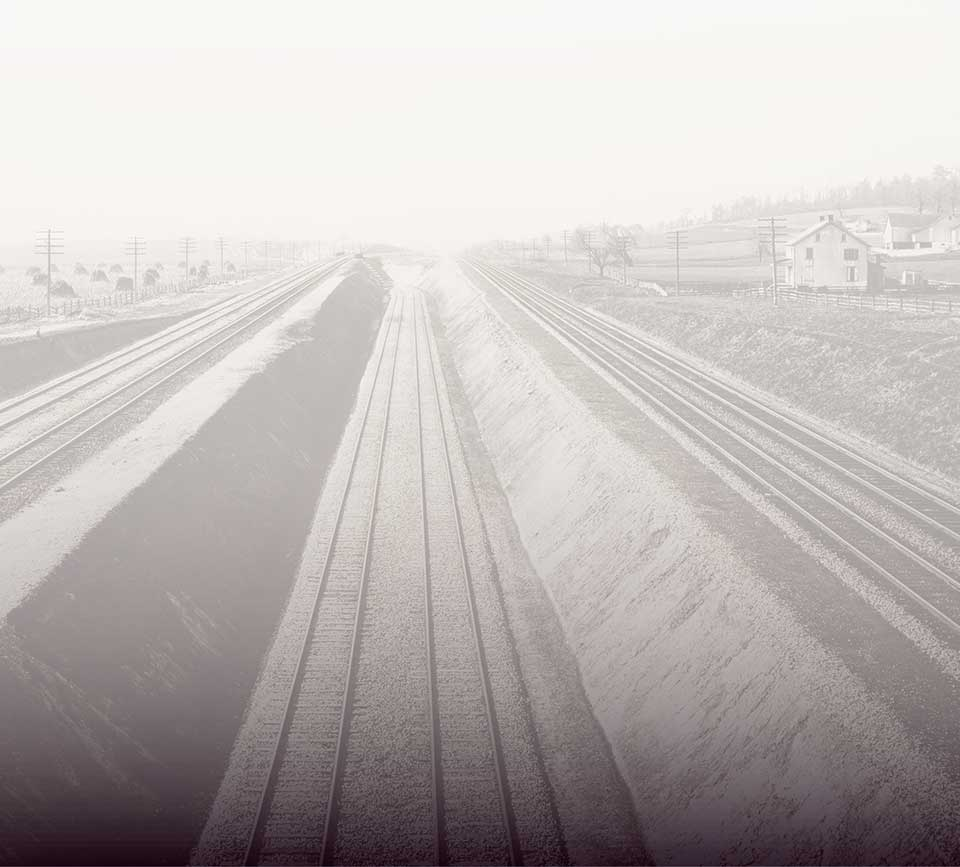
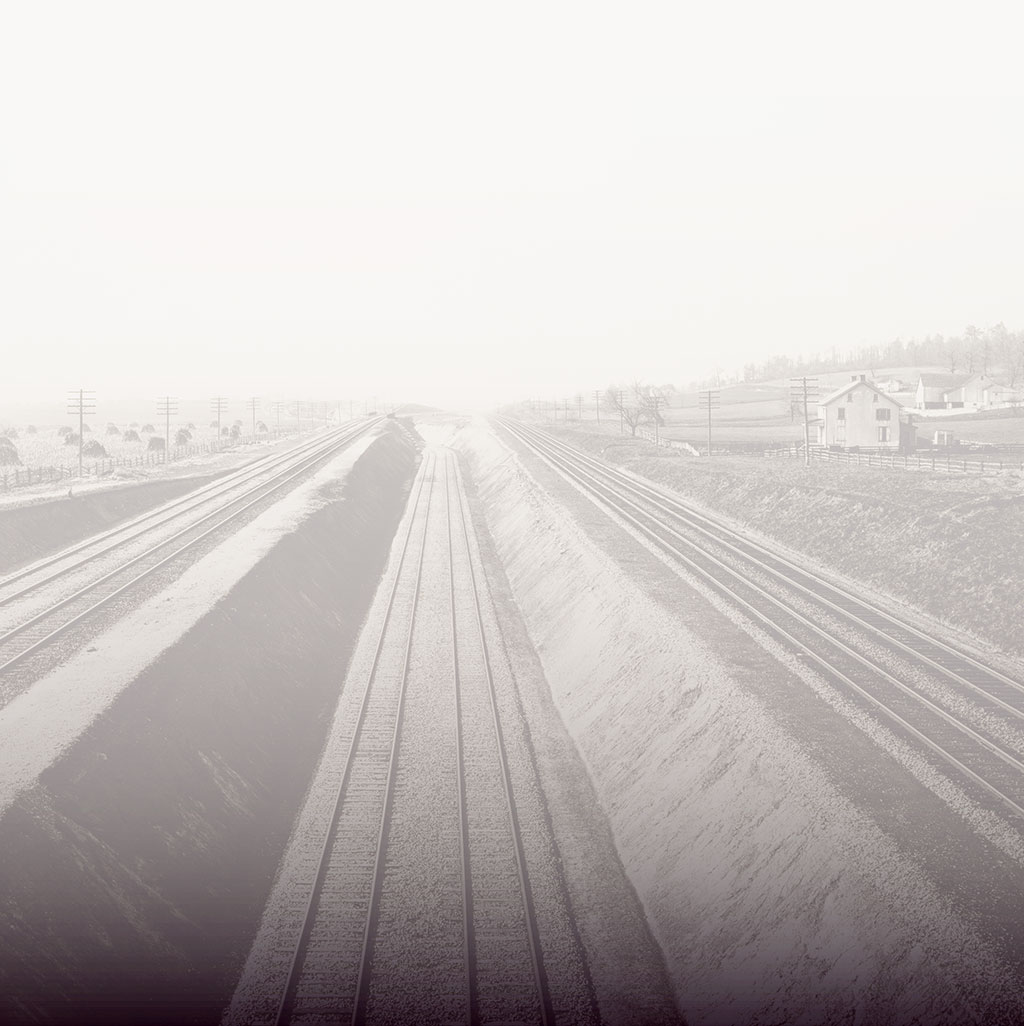
added margin around pages; adjusted elements as necessary

diff --git a/app/styles/_page-header.scss b/app/styles/_page-header.scss
@@ -1,32 +1,35 @@
 // _page-header.scss
 
 .page-header {
-  background: $greige url("../images/header-shadow.jpg") repeat-x bottom;
+  width: 100%;
+  padding: 0 32px;
+  background: $greige url("../images/header-shadow.jpg") no-repeat bottom center;
+  @include clearfix;
   a {
     text-decoration: none;
   }
   h1 {
+    margin: 0;
+    padding: 1em 0 0.5em 0;
     font: 1.55em/1 $font-stack-serif;
     text-transform: uppercase;
     display: inline-block;
     letter-spacing: 1px;
-    margin-right: 1.5em;
     a {
       color: $fuscous-grey;
     }
   }
   nav {
-    display: inline-block;
+    padding-top: 1.65em;
+    float: right;
     ul {
+      margin: 0;
       padding: 0;
       list-style-type: none;
       li {
         position: relative;
         display: inline-block;
-        margin-right: 0.5em;
-        &:last-of-type {
-          margin-right: 0;
-        }
+        margin-left: 1em;
         a {
           color: $camel;
           text-transform: uppercase;
@@ -44,7 +47,7 @@
         top: 1.5em;
         z-index: 1;
         padding: 0;
-        width: 13em;
+        width: 11em;
         li {
           width: 100%;
           margin: 0;
@@ -58,7 +61,7 @@
             display: block;
             width: 100%;
             height: 100%;
-            padding: 0.75em 0 0.75em 2em;
+            padding: 0.75em 0 0.75em 1em;
             &:hover {
               color: $white;
               background: $camel;

diff --git a/app/styles/_period-img.scss b/app/styles/_period-img.scss
@@ -22,6 +22,7 @@
 }
 
 .timeline-nav {
+  margin: 0 auto;
   position: relative;
   @include clearfix;
   &>img {
@@ -36,7 +37,7 @@
       top: 26.8em;
     }
     ul {
-      height: 123.563px;
+      height: 130.359px;
       li {
         height: 100%;
         a {
@@ -52,7 +53,7 @@
       color: $white;
       quotes: none;
       position: absolute;
-      bottom: 6em;
+      bottom: 6.5em;
       right: 1em;
       span:first-of-type {
         display: block;

diff --git a/app/styles/_globals.scss b/app/styles/_globals.scss
@@ -11,13 +11,13 @@ body {
   background: $greige;
   font: 100 18px/1.5 $font-stack-sans;
   color: $fuscous-grey;
-  width: 960 / 18 * 1em;
+  width: 1024 / 18 * 1em;
   margin: 0 auto;
 }
 
 main {
   background: url('../images/train-tracks.jpg') no-repeat bottom center;
-  padding-bottom: 15em;
+  padding-bottom: 12em;
 }
 
 .browserupgrade {

diff --git a/app/styles/_jumbo.scss b/app/styles/_jumbo.scss
@@ -1,11 +1,12 @@
 // _jumbo.scss
 
 .jumbo {
-  background: url('../images/tipping-point-jumbo.jpg') no-repeat;
+  background: url('../images/tipping-point-jumbo.jpg') no-repeat center;
   height: 360px;
   font: 400 2em/1 $font-stack-serif;
   color: $greige;
   position: relative;
+  margin: 0 auto;
   h2 {
     margin: 0;
     width: 100%;

diff --git a/app/styles/_period-subnav.scss b/app/styles/_period-subnav.scss
@@ -3,8 +3,8 @@
 .period-subnav {
   font: 100 0.85em/1 $font-stack-sans;
   list-style-type: none;
-  margin-top: 0;
-  margin-bottom: 0;
+  margin: 0;
+  padding-top: 0.5em;
   padding-left: 0;
   text-align: center;
   li {

diff --git a/app/styles/_page-footer.scss b/app/styles/_page-footer.scss
@@ -1,6 +1,7 @@
 // _page-footer.scss
 
 .page-footer {
+  padding: 0 32px;
   font-size: .7222em;
   font-weight: 400;
   background: $greige;
